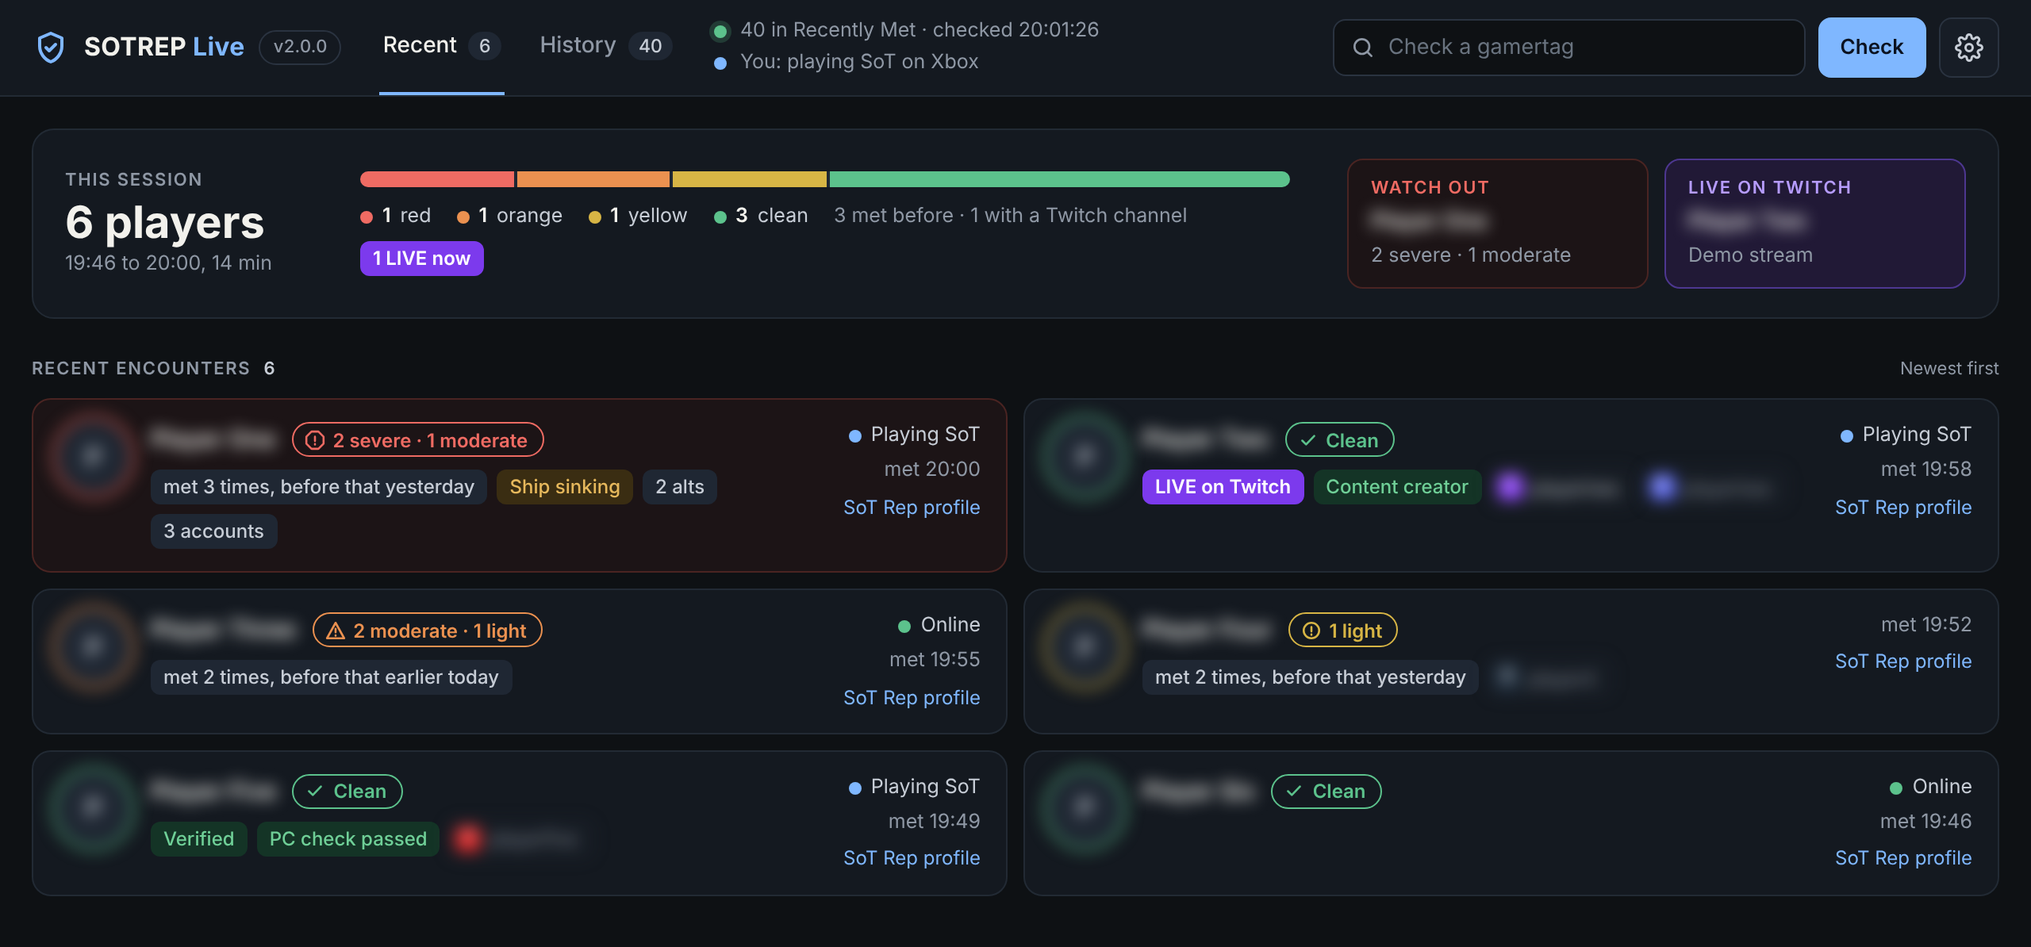
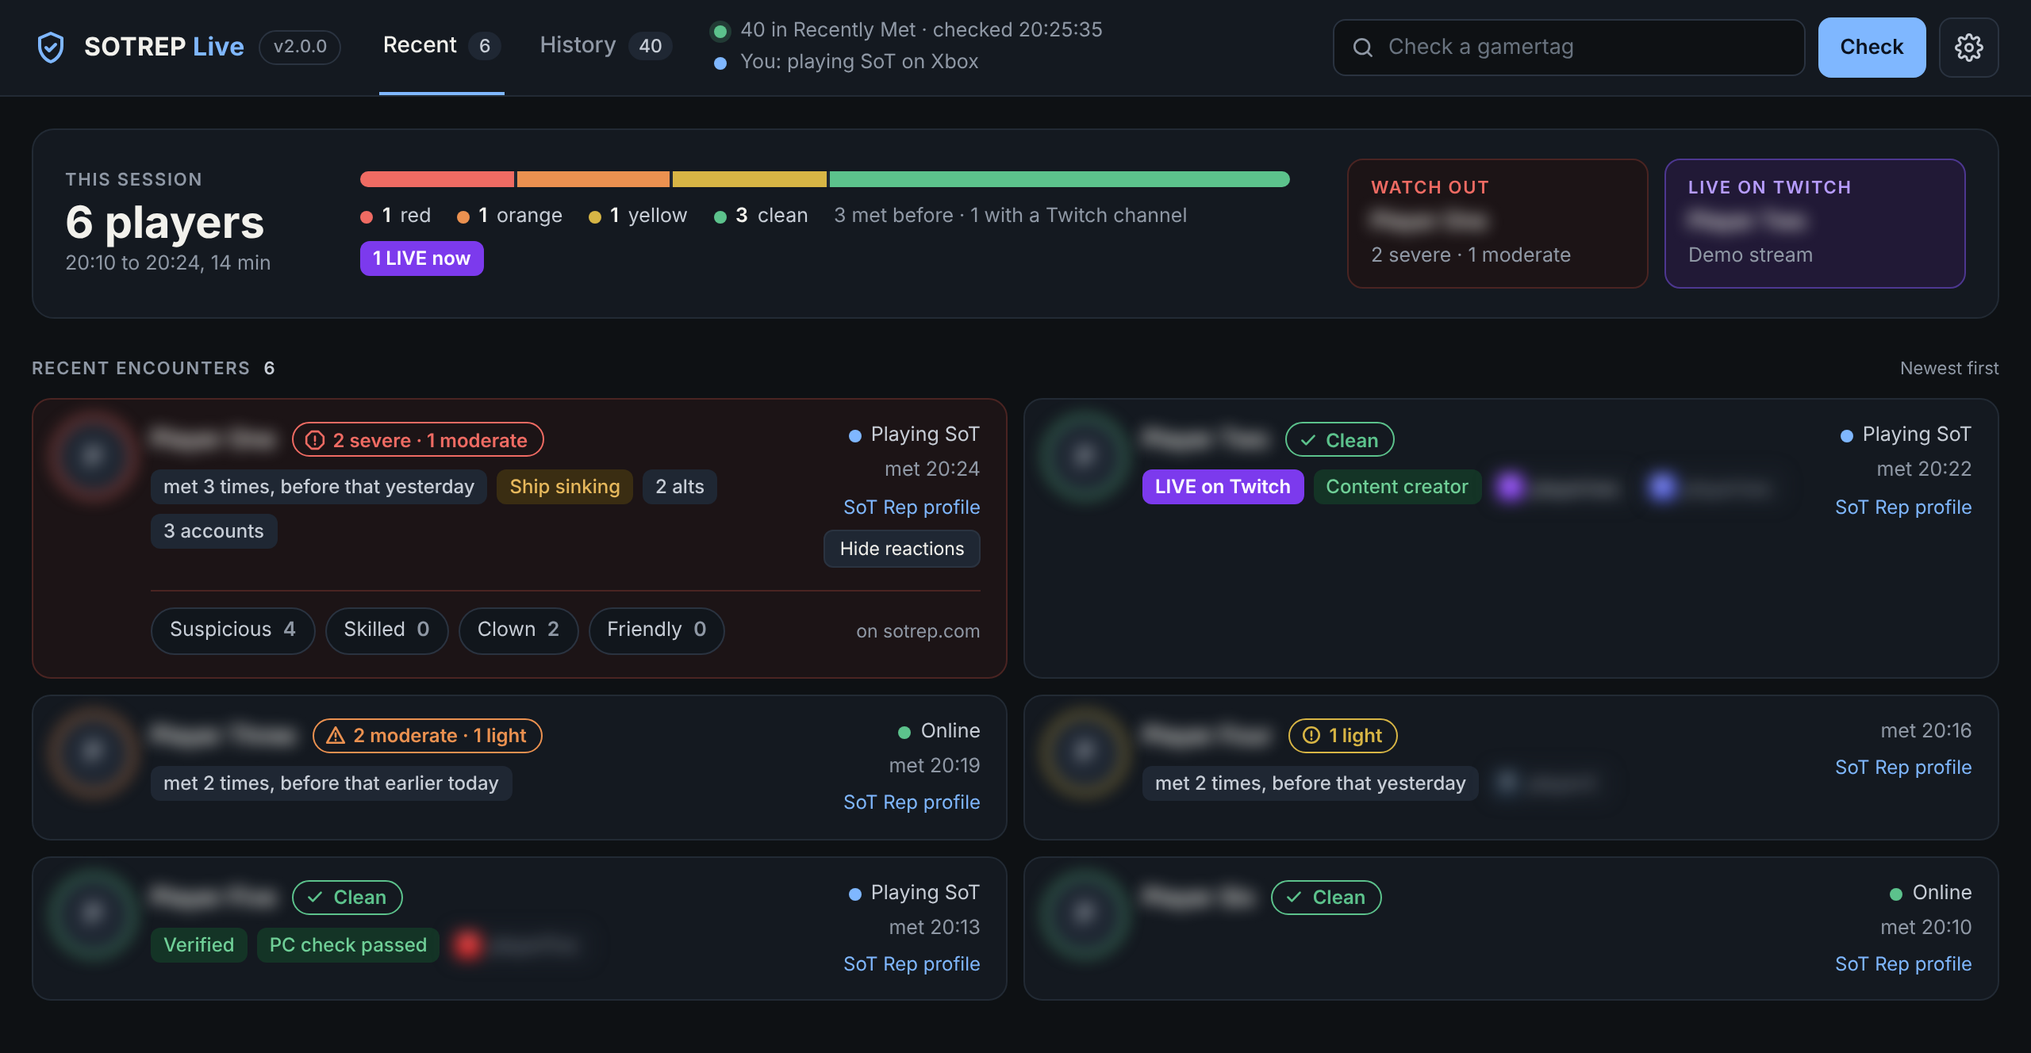
React from the board: Suspicious, Skilled, Clown or Friendly on anyone the game put on Recent, using your sotrep.com login

diff --git a/sotrep-live.user.js b/sotrep-live.user.js
@@ -112,6 +112,7 @@
     hist: { q: '', colour: 'all', streamers: false, repeat: false },   // History search and filters
     manual: new Set(),  // gamertags looked up by hand (Check box, History button): never alert on these
     live: new Map(),    // twitch login -> { at, live, title, url }
+    react: new Map(),   // Xbox ID -> your reactions panel for that player (this page session only)
     liveQueue: [],
     liveBusy: false,
     signedOut: false,       // seaofthieves.com said 401/403: no fast polling; retries on return to the tab, or every SIGNIN_FALLBACK_MS
@@ -312,6 +313,18 @@
     .pres.on .dot{background:var(--c-ok)}
     .prof{font-size:12px;color:var(--c-acc);text-decoration:none}
     .prof:hover{text-decoration:underline}
+    .react-btn{margin-top:2px}
+    .react{grid-column:2/-1;display:flex;flex-wrap:wrap;align-items:center;gap:6px;padding-top:10px;border-top:1px solid var(--c-l1)}
+    .row.severe .react{border-top-color:var(--c-sevbd)}
+    .rchip{all:unset;cursor:pointer;display:inline-flex;align-items:center;gap:7px;height:28px;padding:0 11px;border-radius:999px;border:1px solid var(--c-l2);background:var(--c-bg2);font-size:12.5px;color:var(--c-fg2)}
+    .rchip:hover{border-color:var(--c-l3);color:var(--c-fgs)}
+    .rchip .n{color:var(--c-mute);font-weight:600}
+    .rchip.on{border-color:var(--c-acc);background:var(--c-bg4);color:var(--c-fgs)}
+    .rchip.on .n{color:var(--c-acc)}
+    .rchip[disabled]{opacity:.55;cursor:default}
+    .react .msg{font-size:12px;color:var(--c-amb)}
+    .react .via{margin-left:auto;font-size:11.5px;color:var(--c-mute)}
+    .root.compact .react{grid-column:1/-1;padding-top:6px}
 
     .table{border:1px solid var(--c-l1);border-radius:14px;background:var(--c-bg1);overflow-x:auto}
     .tin{min-width:880px}
@@ -865,6 +878,7 @@
       'A fresh look. The session card shows your red, orange, yellow and clean split as a bar, with who to watch out for and who is live on Twitch.',
       'Every player has a reputation badge with its own shape (octagon red, triangle orange, circle yellow, tick clean), so the colours are easy to tell apart, plus a link to their SoT Rep profile.',
       'History is now a table you can scan: reputation, times met, tags and when, grouped by day. The colour filters show how many players each one holds.',
+      'React from the board: Suspicious, Skilled, Clown or Friendly, the same reactions as a sotrep.com profile, on anyone the game put on your Recent board. Press React on their card.',
       'Settings is laid out in sections with switches. Clear and Reset have moved into Settings, under Your data, so they cannot be pressed by accident.',
     ],
     '1.0.11': [
@@ -1444,6 +1458,9 @@
         rep && rep.error ? h('button', { class: 'mini', onclick: () => { delete state.cache[gt]; save(['cache']); enqueue(gt, true); render(); } }, 'Retry') : null,
       ];
       const rowCls = 'row ' + (needsLookup ? 'unchecked' : cls);
+      // reactions: only for someone the game put on the board this session, never a name typed by hand
+      const xuid = rep && !rep.error && rep.xuid ? String(rep.xuid) : null;
+      const canReact = !inHistory && !!xuid && !!cur && !session.manual.has(gt);
 
       if (inHistory) {
         return h('div', { class: rowCls + ' hrow' },
@@ -1464,9 +1481,103 @@
           presence[1] ? h('span', { class: 'pres ' + presence[0] }, presence[0] ? h('span', { class: 'dot' }) : null, presence[1]) : null,
           first ? h('span', {}, 'met ' + first.toLocaleTimeString('en-GB', { hour: '2-digit', minute: '2-digit' })) : null,
           rep && rep.profile_id ? h('a', { class: 'prof', href: link, target: '_blank', rel: 'noopener' }, 'SoT Rep profile') : null,
+          canReact ? h('button', { class: 'mini react-btn', 'aria-expanded': String(reactState(xuid).open), onclick: () => openReactions(xuid) }, reactState(xuid).open ? 'Hide reactions' : 'React') : null,
         ),
+        canReact ? reactRow(xuid) : null,
       );
     }
+  }
+
+  // ---------- reactions on sotrep.com ----------
+  // The same four reactions as a sotrep.com profile, one toggle per click, with your own sotrep login.
+  // Only for players the game put on your Recent board (never names typed by hand), loaded only when you open them,
+  // and spaced REACT_GAP_MS apart. Any refusal from sotrep is shown as it is; a slow-down pauses reacting.
+  const REACTIONS = [['cheater', 'Suspicious'], ['skilled', 'Skilled'], ['clown', 'Clown'], ['helpful', 'Friendly']];
+  const REACT_GAP_MS = 1500;
+  let lastReactAt = 0, reactPauseUntil = 0;
+  function reactState(xuid) {
+    let r = session.react.get(xuid);
+    if (!r) { r = { open: false, loaded: false, loading: false, busy: false, mine: [], counts: {}, msg: '' }; session.react.set(xuid, r); }
+    return r;
+  }
+  function takeReactions(r, d) {
+    if (!plain(d)) return;
+    if (Array.isArray(d.my_reactions)) r.mine = d.my_reactions.map(String);
+    if (plain(d.reactions)) r.counts = Object.fromEntries(Object.entries(d.reactions).map(([k, v]) => [k, v | 0]));
+  }
+  async function openReactions(xuid) {
+    const r = reactState(xuid);
+    r.open = !r.open;
+    if (r.open && !r.loaded && !r.loading) {
+      r.loading = true; render();
+      const d = await sotrepGet(`/api/player/${encodeURIComponent(xuid)}/reviews?sort=popular`);
+      r.loading = false;
+      if (d) { r.loaded = true; takeReactions(r, d); r.msg = ''; } else r.msg = 'Could not load reactions from sotrep.com';
+    }
+    render();
+  }
+  function sotrepPost(path) {
+    return new Promise((resolve) => {
+      GM_xmlhttpRequest({
+        method: 'POST', url: SOTREP + path, headers: { Accept: 'application/json' }, timeout: 15000,
+        onload: (res) => {
+          let d = {}; try { d = JSON.parse(res.responseText) || {}; } catch (e) {}
+          const ra = ((res.responseHeaders || '').match(/retry-after:\s*(\d+)/i) || [])[1];
+          resolve({ status: res.status, data: d, retry: ra ? parseInt(ra, 10) : 0 });
+        },
+        onerror: () => resolve({ status: 0, data: { error: 'could not reach sotrep.com' } }),
+        ontimeout: () => resolve({ status: 0, data: { error: 'sotrep.com timed out' } }),
+      });
+    });
+  }
+  function reactError(res, label) {
+    const err = res.data && res.data.error;
+    if (res.status === 401) { if (!session.sotrepSignedOut) { session.sotrepSignedOut = true; refreshStatus(); } return 'Sign in to sotrep.com to react (button at the top)'; }
+    if (err === 'reaction_cooldown') return `Wait a second before selecting ${label} again`;
+    if (err === 'terms_not_accepted') return 'Accept the sotrep.com terms first: react once on their profile there';
+    if (err === 'username_requirements_not_met') return 'Finish setting up your sotrep.com account first';
+    if (err === 'account_too_new') return 'Your sotrep.com account is too new to react yet';
+    if (res.status === 429 || res.status === 403) {
+      const wait = Math.min(Math.max(res.retry || 60, 30), 900);
+      reactPauseUntil = Date.now() + wait * 1000;
+      return `sotrep.com asked us to slow down, reacting paused for ${wait >= 120 ? Math.round(wait / 60) + ' minutes' : wait + ' seconds'}`;
+    }
+    return 'sotrep.com said: ' + (err ? String(err).slice(0, 120) : 'error ' + res.status);
+  }
+  async function toggleReaction(xuid, type, label) {
+    const r = reactState(xuid);
+    if (r.busy) return;
+    if (session.sotrepSignedOut) { r.msg = 'Sign in to sotrep.com to react (button at the top)'; render(); return; }
+    const paused = Math.max(reactPauseUntil, session.pauseUntil || 0);
+    if (Date.now() < paused) { r.msg = `sotrep.com asked us to wait, try again after ${new Date(paused).toLocaleTimeString('en-GB')}`; render(); return; }
+    r.busy = true; r.msg = ''; render();
+    const wait = lastReactAt + REACT_GAP_MS - Date.now();
+    if (wait > 0) await new Promise(res => setTimeout(res, wait));
+    lastReactAt = Date.now();
+    const res = await sotrepPost(`/api/player/${encodeURIComponent(xuid)}/reactions/${encodeURIComponent(type)}/toggle`);
+    r.busy = false;
+    if (res.status >= 200 && res.status < 300 && !(res.data && res.data.error)) {
+      const was = r.mine.includes(type);
+      r.mine = was ? r.mine.filter(t => t !== type) : [...r.mine, type];
+      r.counts[type] = Math.max(0, (r.counts[type] | 0) + (was ? -1 : 1));
+      takeReactions(r, res.data);   // if sotrep sends the new state back, trust it over our own count
+    } else r.msg = reactError(res, label);
+    render();
+  }
+  function reactRow(xuid) {
+    const r = reactState(xuid);
+    if (!r.open) return null;
+    return h('div', { class: 'react', role: 'group', 'aria-label': 'Reactions on sotrep.com' },
+      r.loading ? h('span', { class: 'msg' }, 'Loading…') : REACTIONS.map(([type, label]) => {
+        const on = r.mine.includes(type);
+        const b = h('button', { class: 'rchip' + (on ? ' on' : ''), 'aria-pressed': String(on), title: on ? `Take back ${label}` : label, onclick: () => toggleReaction(xuid, type, label) },
+          label, h('span', { class: 'n' }, r.counts[type] | 0));
+        if (r.busy) b.disabled = true;
+        return b;
+      }),
+      r.msg ? h('span', { class: 'msg' }, r.msg) : null,
+      h('span', { class: 'via' }, 'on sotrep.com'),
+    );
   }
 
   // ---------- data: Recently Met ----------

diff --git a/tools/test.js b/tools/test.js
@@ -162,6 +162,74 @@ async function fresh(browser, initial, scheme = 'dark', opts = {}) {
     await ctx.close();
   }
 
+  // ----- reacting on sotrep.com from the board -----
+  {
+    const st = demo.store();
+    st.cache['Player One'].rep.xuid = 111; st.cache['Player Three'].rep.xuid = 333;
+    st.cache['Player Nine'].rep.xuid = 999;   // in History only
+    const init = `window.__toggle = 200; window.__toggleBody = '{}';
+      const real = window.GM_xmlhttpRequest; window.GM_xmlhttpRequest = (o) => {
+        if (/\\/reviews\\?|\\/reactions\\//.test(o.url)) {
+          window.__calls.push(o.method + ' ' + o.url);
+          const toggle = o.url.includes('/toggle');
+          setTimeout(() => o.onload({ status: toggle ? window.__toggle : 200, responseText: toggle ? window.__toggleBody : JSON.stringify({ reactions: { skilled: 2, clown: 1 }, my_reactions: ['clown'] }), responseHeaders: '' }), 20);
+          return;
+        }
+        return real(o);
+      };`;
+    const { ctx, page, q, errors } = await fresh(browser, st, 'dark', { initScript: init });
+    await page.waitForTimeout(1500);
+    const calls = () => page.evaluate(() => __calls.filter(u => /reviews|reactions/.test(u)));
+    eq('React only on players with an Xbox ID on Recent', await q('.list .react-btn').count(), 2);
+    eq('nothing loaded until you open it', await calls(), []);
+    const one = q('.row:has-text("Player One")');
+    await one.locator('.react-btn').click();
+    await page.waitForTimeout(300);
+    eq('opening loads the counts once', (await calls()).length, 1);
+    eq('four reactions with sotrep counts', await one.locator('.rchip').allTextContents(), ['Suspicious0', 'Skilled2', 'Clown1', 'Friendly0']);
+    eq('your own reaction shows as on', await one.locator('.rchip.on').allTextContents(), ['Clown1']);
+    await one.locator('.rchip:has-text("Skilled")').click();
+    await page.waitForTimeout(300);
+    eq('one click sends one toggle', (await calls()).filter(u => u.startsWith('POST')), ['POST https://www.sotrep.com/api/player/111/reactions/skilled/toggle']);
+    eq('the count and state follow', await one.locator('.rchip.on').allTextContents(), ['Skilled3', 'Clown1']);
+    await one.locator('.rchip:has-text("Clown")').click();
+    await page.waitForTimeout(300);
+    eq('reactions are spaced out', (await calls()).filter(u => u.startsWith('POST')).length, 1);
+    await page.waitForTimeout(1600);
+    eq('then the second one goes', (await calls()).filter(u => u.startsWith('POST')).length, 2);
+    eq('clicking again takes it back', await one.locator('.rchip.on').allTextContents(), ['Skilled3']);
+    await page.evaluate(() => { window.__toggleBody = '{"error":"reaction_cooldown","reaction_type":"skilled"}'; });
+    await page.waitForTimeout(1600);
+    await one.locator('.rchip:has-text("Skilled")').click();
+    await page.waitForTimeout(400);
+    check('a refusal is shown and nothing changes', /Wait a second before selecting Skilled/.test(await one.locator('.react').textContent()) && (await one.locator('.rchip.on').count()) === 1, await one.locator('.react').textContent());
+    await page.evaluate(() => { window.__toggle = 401; window.__toggleBody = '{}'; });
+    await page.waitForTimeout(1600);
+    await one.locator('.rchip:has-text("Friendly")').click();
+    await page.waitForTimeout(400);
+    eq('signed out of sotrep: the usual Sign in button appears', (await q('.status .signin').textContent()).trim(), 'Sign in to sotrep.com');
+    const before = (await calls()).length;
+    await one.locator('.rchip:has-text("Friendly")').click();
+    await page.waitForTimeout(400);
+    eq('no more reactions sent while signed out', (await calls()).length, before);
+    await q('button.tab:has-text("History")').click();
+    eq('no React in History', await q('.list .react-btn').count(), 0);
+    eq('no page errors when reacting', errors, []);
+    await ctx.close();
+  }
+
+  // ----- no React for a name typed by hand -----
+  {
+    const init = `window.__searchBody = JSON.stringify({ gamertag: 'Typed Name', xuid: 555, profile_id: 1 });`;
+    const { ctx, page, q } = await fresh(browser, demo.store(), 'dark', { initScript: init });
+    await q('.controls input').fill('Typed Name');
+    await q('.controls button:has-text("Check")').click();
+    await page.waitForTimeout(1500);
+    eq('typed name is looked up and shown', await q('.row:has-text("Typed Name") .rep').count(), 1);
+    eq('but has no React button', await q('.row:has-text("Typed Name") .react-btn').count(), 0);
+    await ctx.close();
+  }
+
   // ----- match device theme -----
   {
     const { ctx, page, q } = await fresh(browser, { ...demo.store(), ui: { theme: 'auto', layout: 'comfortable' } }, 'light');

diff --git a/tools/demo.js b/tools/demo.js
@@ -14,7 +14,7 @@ const twitch = (u) => ({ platform: 'twitch', username: u, link: `https://www.twi
 
 // [gamertag, minutes ago, presence, sotrep reply]
 const recent = [
-  ['Player One', 1, 'sot', { severe_count: 2, moderate_count: 1, manual_tags: ['Ship sinking'], account_count: 3, alts: [{}, {}] }],
+  ['Player One', 1, 'sot', { xuid: 101, severe_count: 2, moderate_count: 1, manual_tags: ['Ship sinking'], account_count: 3, alts: [{}, {}] }],
   ['Player Two', 3, 'sot', { socials: [twitch('playertwo'), { platform: 'discord', username: 'playertwo' }], badges: ['Content creator'] }],
   ['Player Three', 6, 'on', { moderate_count: 2, light_count: 1 }],
   ['Player Four', 9, '', { light_count: 1, socials: [{ platform: 'steam', username: 'player4' }] }],
@@ -65,6 +65,7 @@ const gmStubs = (initial = store()) => `
     if (o.url.includes('meta.js')) text = '// @version ${version}';
     else if (o.url.includes('twitch.tv/playertwo')) text = '"isLiveBroadcast":true <meta property="og:description" content="Demo stream">';
     else if (o.url.includes('twitch.tv')) text = '';
+    else if (o.url.includes('/reviews?')) text = JSON.stringify({ reactions: { cheater: 4, clown: 2 }, my_reactions: [] });
     else if (o.url.includes('xbl-info')) text = JSON.stringify({ is_playing: true, presence_text: 'Sea of Thieves' });
     else if (o.url.includes('/api/search')) text = window.__searchBody || JSON.stringify({ error: 'not found' });
     o.onload && o.onload({ status: o.url.includes('/api/search') ? (window.__searchStatus || 200) : 200, responseText: text, responseHeaders: '' });

diff --git a/tools/screenshots.js b/tools/screenshots.js
@@ -20,7 +20,10 @@ const OUT = path.join(demo.ROOT, 'images');
     document.getElementById('sotrep-live-host').shadowRoot.append(s);
   });
   const fit = async (sel = '.list', pad = -16) => ({ x: 0, y: 0, width: 1280, height: Math.min(page.viewportSize().height, Math.ceil(await shadow(sel).evaluate(e => e.getBoundingClientRect().bottom)) + pad) });
+  await shadow('.row:has-text("Player One") .react-btn').click();   // the reactions panel on the worst player
+  await page.waitForTimeout(300);
   await page.screenshot({ path: path.join(OUT, 'board.png'), clip: await fit() });
+  await shadow('.row:has-text("Player One") .react-btn').click();
 
   await page.setViewportSize({ width: 1280, height: 1120 });   // the settings panel is tall
   await shadow('button[title="Settings"]').click();

diff --git a/README.md b/README.md
@@ -49,6 +49,7 @@ Whatever the browser, allow the one-time requests Tampermonkey shows for sotrep.
 - **Recent** shows your current session: everyone met with no gap over 90 minutes (survives a refresh). A **session card** at the top sums up the current run of play (no gap over 90 minutes): how many players, a bar showing how many were red, orange, yellow and clean, how many you had met before and how many are streamers, plus who to **watch out** for and who is **live on Twitch** right now. A row that says **met 3 times, before that yesterday** is someone you have met again; hover it for every date.
 - **History** is a table of everyone met in the last 30 days, newest first and grouped by day: reputation, how many times you met them, tags and socials, and when. Anyone not yet checked has a **Look up** button. Older encounters and names from the baseline sit in collapsed groups at the bottom. History has a **search box** (name, social handle or tag) and filters for colour (each showing how many players it holds), streamers, and players met more than once. After 30 days a player's stored rep is cut down to their colour and summary, which keeps the script light; meet them again and they are looked up afresh.
 - **Check a gamertag** looks up any name you type, for players you spot in game before Rare registers them. A Twitch channel name works too: if no pirate has that gamertag, sotrep is asked for the pirate linked to that Twitch account.
+- **React** on a Recent card opens the same reactions a sotrep.com profile has (Suspicious, Skilled, Clown, Friendly) with their counts. One click adds yours, a second click takes it back. It uses your sotrep.com login, only appears for players the game put on your board (not names you typed), and sends nothing until you press it.
 - Alerts fire only for players the game registered on its own. Manual lookups (the Check box, History's Look up buttons) never alert.
 - **Settings** (the gear button, top right) opens the alert settings, the display choices, backup, diagnostics and an About section with a link back to this page (the SOTREP Live logo links here too). Switch on what you want to be told about: red (severe flags or banned accounts), orange (moderate flags), purple (a linked streamer who is live), in any mix. A chime plays in the tab by default. Paste a Discord webhook URL to have flagged players posted to a private channel with the rep summary and a profile link, which is the reliable route while a game has the screen. A Windows desktop notification is also available but is hidden behind a full-screen game. **Test alerts** fires every enabled channel once.
 - **Streamers**: a player whose sotrep profile links a Twitch channel is checked against Twitch when they appear, once more a minute later if that first check says not live (Twitch can lag a stream that has just started), then every five minutes while on the Recent board. If they are live, the row gets a purple **LIVE on Twitch** pill that opens the stream, and the streamer alert fires (chime, Discord embed with the stream link). Offline streamers just show their Twitch link. The panel has a box to test the live check against any channel name.

diff --git a/CLAUDE.md b/CLAUDE.md
@@ -8,7 +8,7 @@ Single-file Tampermonkey userscript (`sotrep-live.user.js`) that turns the seaof
 - **Not affiliated.** Nothing in the README, release notes or UI may imply the tool is affiliated with or endorsed by SoT Rep, Rare or Microsoft.
 - **Never risk a ban or block.** Every outbound request needs a reason, a frequency and a back-off. Current budget:
   - seaofthieves.com `get-recent-friends`: adaptive polling (20 s while the list changes, 60 s after 10 quiet minutes, 180 s when hidden and quiet 30 min), 20 s timeout, back-off on 401/403/429/5xx, watchdog restarts a stalled loop.
-  - sotrep.com: one lookup per new name, 3 s apart, cached 24 h (a player met again reuses it), Retry-After honoured, errored rows never auto-retried. No bulk lookup, ever (the owner's decision). Own presence via `xbl-info` every 5 min visible, 15 min hidden.
+  - sotrep.com: one lookup per new name, 3 s apart, cached 24 h (a player met again reuses it), Retry-After honoured, errored rows never auto-retried. No bulk lookup, ever (the owner's decision). Own presence via `xbl-info` every 5 min visible, 15 min hidden. Reactions: only when you press React on a card the game put on Recent (one reviews read when opened, one toggle per click, 1.5 s apart, a 429/403 pauses reacting, a 401 joins the normal signed-out flow); never automatic, never for typed names or History.
   - twitch.tv: one channel page per live-checked streamer every 5 min, only for the Recent board. A streamer's first check in a page session that says not live (or fails) gets one extra check 60 s later.
   - GitHub: meta file check every 6 h.
 - **Writing:** UK English. No em dashes or en dashes anywhere (code comments, README, commits, release notes). Plain short commit messages that do not read as AI. Never add a Co-Authored-By trailer or a Claude session link to commits or PRs.
